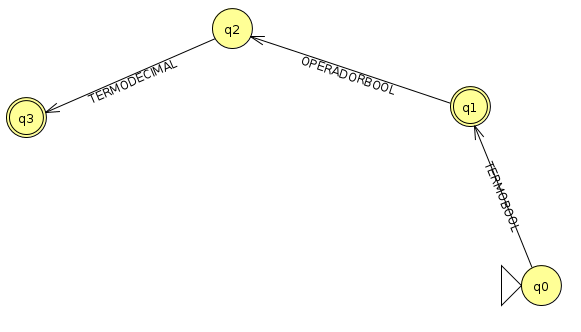
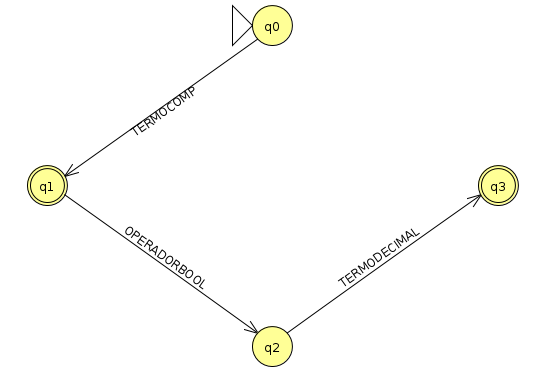
Sintatico funciona

diff --git a/source/src/syntatic.c b/source/src/syntatic.c
@@ -148,6 +148,7 @@ int analyze(FILE* fp) {
             if((ret = nextToken(fp, &state.curr_token)) == 0) {
                 break;
             }
+            printToken(state.curr_token);
         }
 
         state.get_token_flag = 1;
@@ -362,7 +363,7 @@ int fsm_variavel(Token* t){
             }
             break;
         case 2:
-            if (t->tokenClass == CLASS_DELIMITER && t->value.charValue == '=') {
+            if (t->tokenClass == CLASS_OPERATOR && strcmp(t->value.stringValue, "=") == 0) {
                 semantic_tbd();
                 return 4;
             } else if (t->tokenClass == CLASS_DELIMITER && t->value.charValue == ';') {
@@ -423,7 +424,7 @@ int fsm_variavel(Token* t){
             }
             break;
         case 11:
-            if (t->tokenClass == CLASS_OPERATOR && t->value.charValue == '=') {
+            if (t->tokenClass == CLASS_OPERATOR && strcmp(t->value.stringValue, "=") == 0) {
                 semantic_tbd();
                 return 12;
             }
@@ -565,7 +566,7 @@ int fsm_comando(Token* t){
             }
             break;
         case 1:
-            if (t->tokenClass == CLASS_OPERATOR && t->value.charValue == '=') {
+            if (t->tokenClass == CLASS_OPERATOR && strcmp(t->value.stringValue, "=") == 0) {
                 semantic_tbd();
                 return 2;
             } else if (t->tokenClass == CLASS_DELIMITER && t->value.charValue == '(') {
@@ -625,9 +626,15 @@ int fsm_expressao(Token* t){
             semantic_tbd();
             return call_sm(FSM_TERMODECIMAL, 1);
         case 1:
-            // Estado final
-            pop(&stack);
-            return state.current_sub_machine_state;
+            if(t->tokenClass == CLASS_OPERATOR &&
+                (  strcmp(t->value.stringValue, "+" ) == 0 || strcmp(t->value.stringValue, "-") == 0
+                || strcmp(t->value.stringValue, "/" ) == 0 || strcmp(t->value.stringValue, "*" ) == 0)){
+                semantic_tbd();
+                return 2;
+            }else{
+                pop(&stack);
+                return state.current_sub_machine_state;
+            }
         case 2:
             semantic_tbd();
             return call_sm(FSM_EXPRESSAO, 3);
@@ -641,57 +648,113 @@ int fsm_expressao(Token* t){
 int fsm_termodecimal(Token* t){
     switch (state.current_sub_machine_state) {
         case 0:
-            break;
+            semantic_tbd();
+            return call_sm(FSM_TERMOCOMP, 1);
         case 1:
+            if(t->tokenClass == CLASS_OPERATOR &&
+                (  strcmp(t->value.stringValue, "&" ) == 0 || strcmp(t->value.stringValue, "|") == 0
+                || strcmp(t->value.stringValue, "^" ) == 0 )){
+                semantic_tbd();
+                return 2;
+            }else{
+                pop(&stack);
+                return state.current_sub_machine_state;
+            }
             break;
         case 2:
-            break;
+            semantic_tbd();
+            return call_sm(FSM_TERMODECIMAL, 3);
         case 3:
-            break;
+            pop(&stack);
+            return state.current_sub_machine_state;
     }
     return -1;
 }
 int fsm_termocomp(Token* t){
     switch (state.current_sub_machine_state) {
         case 0:
-            break;
+            semantic_tbd();
+            return call_sm(FSM_TERMOPRIMARIO, 1);
         case 1:
+            if(t->tokenClass == CLASS_OPERATOR &&
+                (  strcmp(t->value.stringValue, "<" ) == 0 || strcmp(t->value.stringValue, "<=") == 0
+                || strcmp(t->value.stringValue, ">" ) == 0 || strcmp(t->value.stringValue, ">=") == 0
+                || strcmp(t->value.stringValue, "==") == 0 || strcmp(t->value.stringValue, "!=") == 0
+                || strcmp(t->value.stringValue, "&&") == 0 || strcmp(t->value.stringValue, "||") == 0 )){
+                semantic_tbd();
+                return 2;
+            }else{
+                pop(&stack);
+                return state.current_sub_machine_state;
+            }
             break;
         case 2:
-            break;
+            semantic_tbd();
+            return call_sm(FSM_TERMOCOMP, 3);
         case 3:
-            break;
-        case 4:
-            break;
-        case 5:
-            break;
-        case 6:
-            break;
-        case 7:
-            break;
-        case 8:
-            break;
+            pop(&stack);
+            return state.current_sub_machine_state;
     }
     return -1;
 }
+
 int fsm_termoprimario(Token* t){
     switch (state.current_sub_machine_state) {
         case 0:
+            if(t->tokenClass == CLASS_IDENTIFIER){
+                semantic_tbd();
+                return 1;
+            }else if(t->tokenClass == CLASS_DELIMITER && t->value.charValue == '('){
+                semantic_tbd();
+                return 2;
+            }else if(t->tokenClass == CLASS_INT || t->tokenClass == CLASS_FLOAT || t->tokenClass == CLASS_STRING_LIT){
+                semantic_tbd();
+                return 3;
+            }
             break;
         case 1:
+            if(t->tokenClass == CLASS_DELIMITER && t->value.charValue == '('){
+                semantic_tbd();
+                return 4;
+            }else{
+                pop(&stack);
+                return state.current_sub_machine_state;
+            }
             break;
         case 2:
-            break;
+            semantic_tbd();
+            return call_sm(FSM_EXPRESSAO, 8);
         case 3:
-            break;
+            pop(&stack);
+            return state.current_sub_machine_state;
         case 4:
+            if(t->tokenClass == CLASS_DELIMITER && t->value.charValue == ')'){
+                semantic_tbd();
+                return 3;
+            }else{
+                semantic_tbd();
+                return call_sm(FSM_EXPRESSAO, 5);
+            }
             break;
         case 5:
+            if(t->tokenClass == CLASS_DELIMITER && t->value.charValue == ')'){
+                semantic_tbd();
+                return 3;
+            }else if(t->tokenClass == CLASS_DELIMITER && t->value.charValue == ','){
+                semantic_tbd();
+                return 6;
+            }
             break;
         case 6:
-            break;
+            semantic_tbd();
+            return call_sm(FSM_EXPRESSAO, 5);
         case 7:
+            if(t->tokenClass == CLASS_DELIMITER && t->value.charValue == ')'){
+                semantic_tbd();
+                return 3;
+            }
             break;
+
     }
     return -1;
 }

diff --git a/source/inc/syntatic.h b/source/inc/syntatic.h
@@ -16,7 +16,8 @@ typedef enum {
     FSM_EXPRESSAO,
     FSM_TERMODECIMAL,
     FSM_TERMOCOMP,
-    FSM_TERMOPRIMARIO
+    FSM_TERMOPRIMARIO,
+    FSM_SIZE
 } sub_machine_t;
 
 /*
